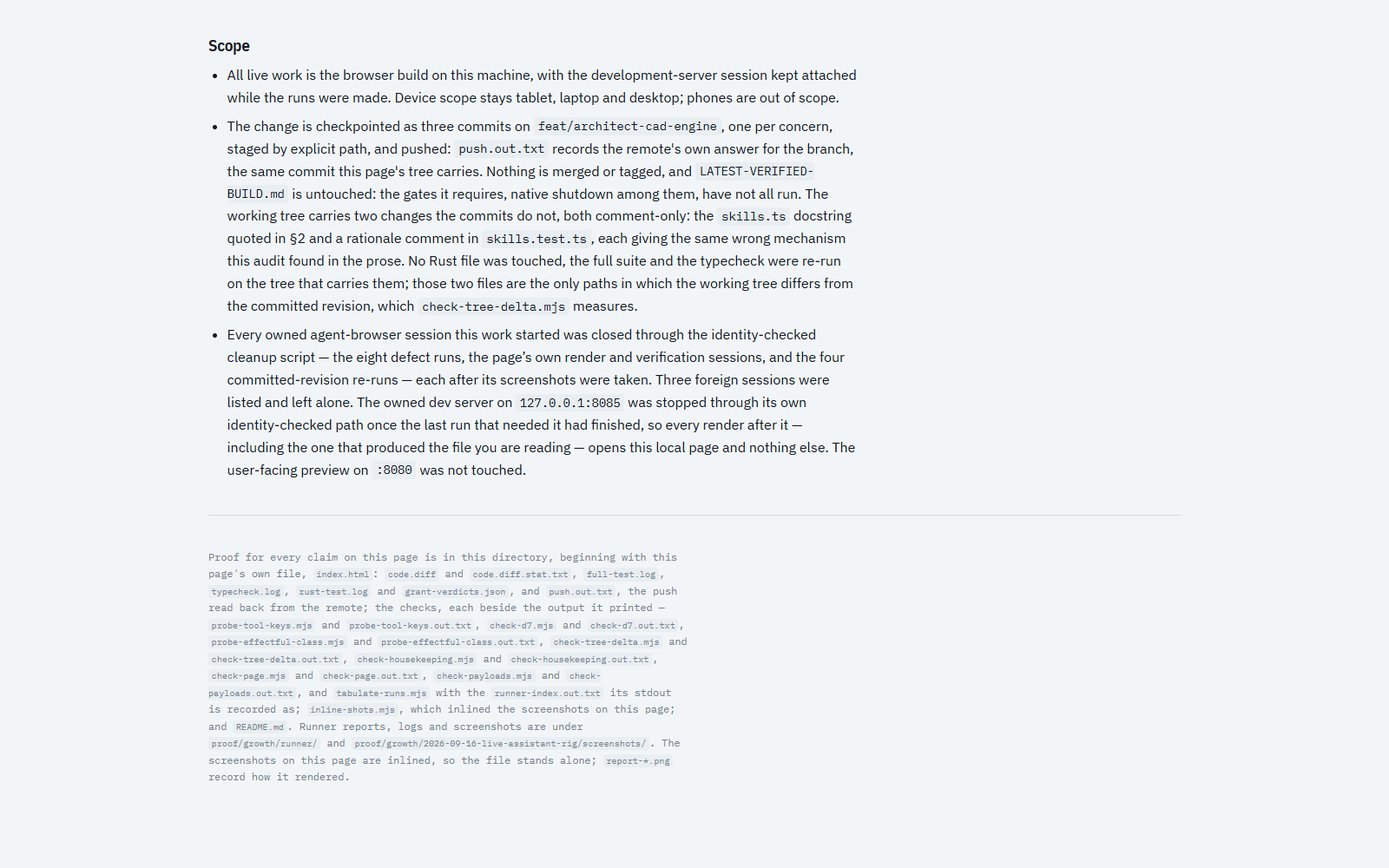
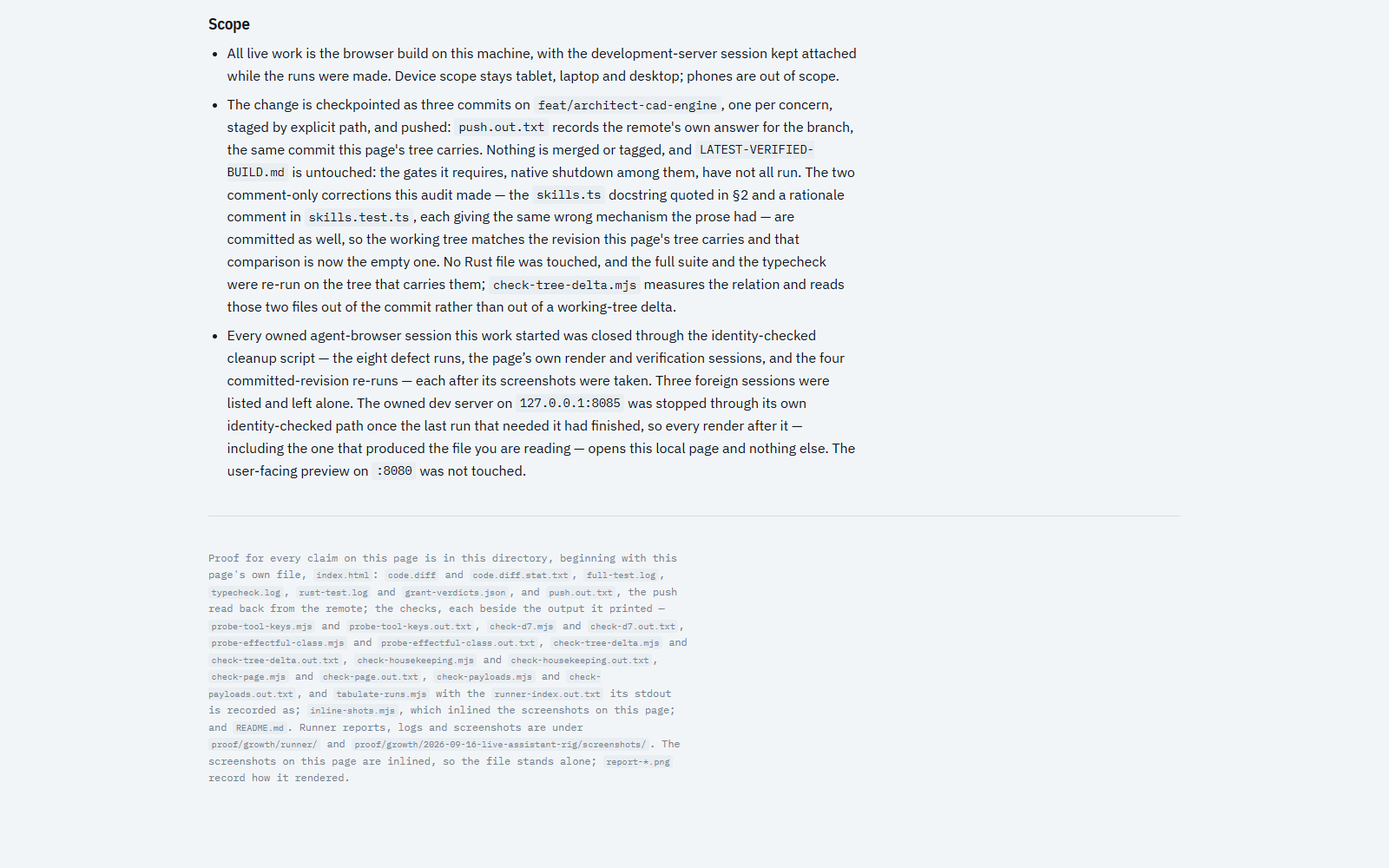
docs(proof): re-render the report page for the committed corrections, and re-derive every figure that moved
The commit before this one put the two comment corrections into the history and re-pointed the check
that measures them. That made three passages of the report page and four of its note false — they said
the working tree carried changes the commits did not — and it made the check's own readings the clean
state's rather than the delta's. This is the round that follows: the page and the note are edited, the
page is re-rendered, and every figure the record and the render own is re-derived rather than retyped.

The page. Its Scope bullet and its `code.diff` evidence row now say the corrections are committed and
that the comparison is the empty one; the row's account of what the check shows is the reading the check
actually prints, taken from the pinned tip (`git diff 26f5deb 09f1771`); and the §5 row that asked a
reader to run `git diff HEAD~3` now asks for the pinned range, which later commits do not move. The page
carries no `HEAD~3` at all, which the render's scenario reads directly. §2's docstring quotation needed
no edit: the commit is what made that quotation true of the committed source.

The render. `qa-render-final12` re-took all six captures against the edited page, and its scenario is
derived from the previous one rather than rewritten — 83 booleans over the page, 47 that must read true
and 36 that must read false, 35 of them superseded wordings, every one landing as declared. Its scenario
[…]

Changed region(s): [[0.1562, 0.0, 0.625, 0.558], [0.1562, 0.62, 0.5, 0.899]]

diff --git a/proof/growth/2026-09-17-defect-fixes/index.html b/proof/growth/2026-09-17-defect-fixes/index.html
@@ -258,7 +258,7 @@
             <td>Internal planning text shown to the user. 158 characters of third-person reasoning archived and rendered as an assistant message.</td>
             <td><strong>Mitigated, not fixed.</strong> The strip now covers all three <em>tagged</em> shapes and leaves a space where it removes text. The surviving candidate &mdash; a tool-calling round&rsquo;s text emitted as a durable bubble at <code>conversation.ts:129</code> &mdash; is deliberately untouched.</td>
             <td><span class="tier t-mitigated">not verifiable</span></td>
-            <td>Source + unit. The triggering run was 1 of 5 and is not reproducible on demand. What is proven is that the site is unchanged: <code>git diff HEAD~3 -- src/studio/assistant/conversation.ts</code> is empty, so no commit in this change touches it.</td>
+            <td>Source + unit. The triggering run was 1 of 5 and is not reproducible on demand. What is proven is that the site is unchanged: <code>git diff 26f5deb 09f1771 -- src/studio/assistant/conversation.ts</code> is empty &mdash; the range <code>push.out.txt</code> records, which later commits do not move &mdash; so no commit in this change touches it.</td>
           </tr>
           <tr>
             <td>D2</td>
@@ -434,13 +434,16 @@ members. The class exists so the gate can widen without the record changing mean
             <td>code.diff</td>
             <td>The complete change</td>
             <td>17 files, <strong>+452 / &minus;60</strong>, no new source files. Re-generated from the three
-            commits and byte-compared with <code>cmp</code>: identical to <code>git diff HEAD~3</code>
-            as the change was committed, 93,178 bytes. Two comments have been corrected since, one per
-            file and both comment-only &mdash; the <code>skills.ts</code> docstring quoted above, in
-            &sect;2, and a rationale comment in <code>skills.test.ts</code> &mdash; and those two are
-            the only thing the same comparison now shows: 21 lines across exactly those two paths,
-            none of them code, the other fifteen committed paths carrying an identical diff. Run
-            rather than asserted: <code>check-tree-delta.mjs</code>, <strong>6 of 6</strong>.</td>
+            commits and byte-compared with <code>cmp</code>: identical to <code>git diff
+            26f5deb 09f1771</code> &mdash; the range <code>push.out.txt</code> records, which does not
+            move when later commits land &mdash; as the change was committed, 93,178 bytes. Two comments
+            were corrected after it, one per file and both comment-only: the <code>skills.ts</code>
+            docstring quoted above, in &sect;2, and a rationale comment in <code>skills.test.ts</code>.
+            Both are committed, so the comparison that used to show their 21 lines shows none of them,
+            and <code>check-tree-delta.mjs</code> reads the two files out of the commit that carries
+            them instead of out of a working-tree delta: 21 lines against the pinned tip, none of them
+            code, the other fifteen committed paths carrying an identical diff. Run rather than
+            asserted: <strong>6 of 6</strong>.</td>
           </tr>
           <tr>
             <td>full-test.log</td>
@@ -776,12 +779,13 @@ The answer rests on the conversation and any receipts already recorded."</blockq
       concern, staged by explicit path, and pushed: <code>push.out.txt</code> records the remote's own
       answer for the branch, the same commit this page's tree carries. Nothing is merged or tagged, and
       <code>LATEST-VERIFIED-BUILD.md</code> is untouched: the gates it requires, native shutdown among
-      them, have not all run. The working tree carries two changes the commits do not, both
-      comment-only: the <code>skills.ts</code> docstring quoted in &sect;2 and a rationale comment in
-      <code>skills.test.ts</code>, each giving the same wrong mechanism this audit found in the prose.
-      No Rust file was touched, the full suite and the typecheck were re-run on the tree that carries
-      them; those two files are the only paths in which the working tree differs from the committed
-      revision, which <code>check-tree-delta.mjs</code> measures.</li>
+      them, have not all run. The two comment-only corrections this audit made &mdash; the
+      <code>skills.ts</code> docstring quoted in &sect;2 and a rationale comment in
+      <code>skills.test.ts</code>, each giving the same wrong mechanism the prose had &mdash; are
+      committed as well, so the working tree matches the revision this page's tree carries and that
+      comparison is now the empty one. No Rust file was touched, and the full suite and the typecheck
+      were re-run on the tree that carries them; <code>check-tree-delta.mjs</code> measures the
+      relation and reads those two files out of the commit rather than out of a working-tree delta.</li>
       <li>Every owned agent-browser session this work started was closed through the identity-checked
       cleanup script &mdash; the eight defect runs, the page&rsquo;s own render and verification
       sessions, and the four committed-revision re-runs &mdash; each after its screenshots were taken.

diff --git a/proof/growth/2026-09-17-defect-fixes/README.md b/proof/growth/2026-09-17-defect-fixes/README.md
@@ -16,12 +16,12 @@ This directory is not part of those commits, so the note is the repair record ra
 shipped; every file it cites is in the working tree or a tracked path, and the record is committed on its own.
 `code.diff` was taken from the working tree before staging and, as the change was committed,
 **`git diff 26f5deb 09f1771` — the range `push.out.txt` beside it records — was byte-identical to it** —
-93,178 bytes, `cmp` clean. Two comments have been corrected since, one per file and both
+93,178 bytes, `cmp` clean. Two comments were corrected after it, one per file and both
 comment-only: `skills.ts`'s docstring, quoted in the page&rsquo;s §2, and a rationale comment in
-`skills.test.ts` — each gave the same wrong mechanism the corrected prose gave. Those two are the only
-thing the comparison adds today, so the "byte for byte" wording is retired here rather than left
-standing; `code.diff` itself is unchanged, and `check-tree-delta.mjs` runs the whole relation below
-rather than leaving it to this sentence.
+`skills.test.ts` — each gave the same wrong mechanism the corrected prose gave. Both are committed
+now, so the comparison that used to add their 21 lines adds nothing, and `check-tree-delta.mjs` runs
+the whole relation below — reading those two files out of the commit that carries them — rather than
+leaving it to this sentence.
 
 The rule this directory answers to: **nothing is done without a code diff plus executed or inspected
 proof.** Every claim below names the artifact that carries it, and the three that are not established
@@ -182,8 +182,8 @@ they are copied verbatim into `grant-verdicts.json` rather than cited by run id.
 | `probe-effectful-class.mjs`, `.out.txt` | What the effectful class is, and what the rejected alternative would have done | Runs the real predicates: the 38-name catalogue splits into **12 edits / 5 effectful-not-edits / 21 other declared reads / 0 unclassified** — 12 + 5 + 21 = 38, the 17 gated and 21 read-only the row above states; the five effectful names are themselves declared reads, so the probe's separately printed `26 declared reads` contains them; `assistantToolAllowed` stops moving with `allowProjectEdits` for exactly the five (`skills.ts:145`'s first disjunct decides them, so no `EDIT_TOOLS` membership can change it), while the gate before this change keyed on that set alone (read out of `git show 88e2e52^`); five readers of `isAssistantEditTool` outside tests, of which the gate's own `isAssistantGatedTool` is one; with a pending action set the witness edit tool is refused by `workPacket.ts:81` — the refusal keys off `isAssistantEditTool`, so it covers all 12 — and none of the five is; `isStateChangingTool` is false for all five and true for the witness edit; and `isConfirmedRejection` answers false for every name but the two draw tools, handed the one receipt shape that clears one. It also resolves against the tree each `file.ext:N` token the page and this note print — and fails one that lands on a blank or on a comment line, `//` included; a shorthand continuation and a range&rsquo;s second endpoint spell out no filename of their own, so they are not resolved; its own section G states how many occurrences that is and how many are distinct, and neither figure is repeated here, because this note is one of the two documents counted; on its first run section G caught a real one, a `skills.ts` line this pass's own comment correction had moved onto the docstring. **51 of 51**. |
 | `check-payloads.mjs`, `check-payloads.out.txt` | The page's four inlined figures against every PNG under `proof/` | **4 payloads**, each a PNG and all four distinct, and **0 of 4** matching the bytes of any PNG under `proof/` — the count it is held against and their digests are in its recorded output rather than quoted here, because every capture this bundle gains moves them. That comparison is what licenses reading the page's figures as the accepted runs' frames rather than the re-run ones. **4 of 4**. |
 | `tabulate-runs.mjs`, `runner-index.out.txt` | The live-run index | 26 reports: **4 accepted turns / 4 re-run at the committed revision / 5 substantively excluded / 1 diagnostic**, plus **12 close-operation-only** entries. Every accepted, re-run and close-operation report exits 0; the four that do not — two `exit 1` and two `exit null` from the rig's spawn timeout — are among the excluded runs, and §6 labels each with its own status. |
-| `check-housekeeping.mjs`, `check-housekeeping.out.txt` | The count claims above, checked against the record rather than restated | 25 passes, 51 sessions, **50 of 50** temporary profile directories gone after close, 1 persistent directory still present, and the record's last twenty-eight entries exactly this work's sessions, each `exitCode: 0` with its daemon and every profile directory gone. Also that the owned dev server was stopped rather than retained, and that the user-facing preview is the only server kept — that last reading run as well against three perturbed copies of the record, each of which it must reject, so a record that keeps a second server on any port cannot pass it. **13 of 13**. |
-| `check-page.mjs`, `check-page.out.txt`, `report-*.png` | The report page itself, checked and then rendered | 21 classes used / 25 defined, tag balance clean, no unresolved substitution, fonts the only external host, every one of the 21 tokens defined inside each of the two dark blocks — the two are read one at a time rather than merged into one list, so a token defined in only one of them fails the check instead of passing on the pair — and the footer's inventory of this directory held in both directions: 26 file names and one glob standing in for its 6 captures, over all 32 entries, so an artifact the footer omits or one it names but the directory does not hold both fail it — its recorded output counts 29 `<code>` tokens to get there, the other two being the directory paths the footer also names, which are skipped because they name no file in this directory. Rendered at 1600×1000 as five captures — the top, the register and the fix, the committed-revision re-runs, §4's evidence table from its `code.diff` row down, and the page tail (§7 Limits, Scope and the proof footer) — and the readings are that viewport's own DOM: 4 tally tiles, 21 table rows, all 4 inlined screenshots loading, the body ground painted from the token, and no horizontal overflow. The 400×900 pass re-reads horizontal overflow alone and took the sixth capture. That is a narrow-viewport robustness reading of this page, not a device-scope claim, which stays tablet, laptop and desktop. The rendered reading is the shipped page's own report (`2026-09-17T10-48-35-327Z-qa-render-final11`), whose scenario declares 78 booleans over the page — 46 that must read true (the re-run block, the four readings, every corrected sentence, the disclosure that the retracted 76.2 s figure is stated beside the note that no artifact established it, the footer's own inventory, the two clauses and the split card readings the previous round re-worded, this round's corrected footer clauses and their retired wordings read as absent, the scope bullet that now says the commits are pushed, the push record the footer's inventory counts, and two structural checks) and 32 that must read false (31 superseded wordings and one geometry reading that catches horizontal overflow) — and every one of them lands as declared. The renders before it are kept in the record rather than dropped: `qa-render-final3`, whose one failed assertion was the scenario's fault and not the page's (a pattern written as a single line against a sentence the source wraps in two, which `document.body.textContent` therefore does not contain — the eval now compares whitespace-collapsed prose), and `qa-render-final4` through `qa-render-final9`, each superseded when a passage of the page was corrected after its captures had been taken — `qa-render-final8` by the §7 correction, whose first form re-worded the clause before the one it aimed at and turned one of the scenario's own readings false, so the edit was narrowed back to the sentence the audit had sustained, `qa-render-final9` by the footer correction, which had credited `runner-index.out.txt` to a script that writes no file, and `qa-render-final10` by the push: four passages in this bundle said the commits were unpushed, and the push made all four false the moment it landed. |
+| `check-housekeeping.mjs`, `check-housekeeping.out.txt` | The count claims above, checked against the record rather than restated | 27 passes, 52 sessions, **51 of 51** temporary profile directories gone after close, 1 persistent directory still present, and the record's last twenty-eight entries exactly this work's sessions, each `exitCode: 0` with its daemon and every profile directory gone. Also that the owned dev server was stopped rather than retained, and that the user-facing preview is the only server kept — that last reading run as well against three perturbed copies of the record, each of which it must reject, so a record that keeps a second server on any port cannot pass it. **13 of 13**. |
+| `check-page.mjs`, `check-page.out.txt`, `report-*.png` | The report page itself, checked and then rendered | 21 classes used / 25 defined, tag balance clean, no unresolved substitution, fonts the only external host, every one of the 21 tokens defined inside each of the two dark blocks — the two are read one at a time rather than merged into one list, so a token defined in only one of them fails the check instead of passing on the pair — and the footer's inventory of this directory held in both directions: 26 file names and one glob standing in for its 6 captures, over all 32 entries, so an artifact the footer omits or one it names but the directory does not hold both fail it — its recorded output counts 29 `<code>` tokens to get there, the other two being the directory paths the footer also names, which are skipped because they name no file in this directory. Rendered at 1600×1000 as five captures — the top, the register and the fix, the committed-revision re-runs, §4's evidence table from its `code.diff` row down, and the page tail (§7 Limits, Scope and the proof footer) — and the readings are that viewport's own DOM: 4 tally tiles, 21 table rows, all 4 inlined screenshots loading, the body ground painted from the token, and no horizontal overflow. The 400×900 pass re-reads horizontal overflow alone and took the sixth capture. That is a narrow-viewport robustness reading of this page, not a device-scope claim, which stays tablet, laptop and desktop. The rendered reading is the shipped page's own report (`2026-09-17T17-17-51-089Z-qa-render-final12`), whose scenario declares 83 booleans over the page — 47 that must read true (the re-run block, the four readings, every corrected sentence, the disclosure that the retracted 76.2 s figure is stated beside the note that no artifact established it, the footer's own inventory, the two clauses and the split card readings the previous round re-worded, this round's corrected footer clauses and their retired wordings read as absent, the scope bullet that now says the commits are pushed, the push record the footer's inventory counts, and two structural checks) and 36 that must read false (35 superseded wordings and one geometry reading that catches horizontal overflow) — and every one of them lands as declared. The renders before it are kept in the record rather than dropped: `qa-render-final3`, whose one failed assertion was the scenario's fault and not the page's (a pattern written as a single line against a sentence the source wraps in two, which `document.body.textContent` therefore does not contain — the eval now compares whitespace-collapsed prose), and `qa-render-final4` through `qa-render-final9`, each superseded when a passage of the page was corrected after its captures had been taken — `qa-render-final8` by the §7 correction, whose first form re-worded the clause before the one it aimed at and turned one of the scenario's own readings false, so the edit was narrowed back to the sentence the audit had sustained, `qa-render-final9` by the footer correction, which had credited `runner-index.out.txt` to a script that writes no file, `qa-render-final10` by the push: four passages in this bundle said the commits were unpushed, and the push made all four false the moment it landed, and `qa-render-final11` by the round that committed the corrections — the page said the working tree carried them, and the commit made that false. |
 
 The probe asserts the partition rather than printing it for a reader. It builds the real catalogue via
 `createAppTools(port)` and holds every reading above against it, including the keys `INTENT_KEYS` names —
@@ -365,24 +365,24 @@ revision rather than from the accepted run.
   which the standing constraints forbid without Daniel naming them, so the claim that each commit is
   independently green rests on reading, not on execution. What *is* executed is the whole suite on the
   final tree, and that `git diff 26f5deb 09f1771` was byte-identical to `code.diff` as the change was committed.
-  The working tree carries two further changes the three commits do not — the `skills.ts` docstring the page quotes in §2,
-  and a rationale comment in `skills.test.ts` that repeated the same wrong mechanism, both comment-only and both corrected
-  after the commits — so that comparison today adds those two comments and nothing else,
-  uncommitted and disclosed rather than folded into `code.diff`.
+  The two comment-only corrections — the `skills.ts` docstring the page quotes in §2, and a rationale
+  comment in `skills.test.ts` that repeated the same wrong mechanism — are committed as well, in the
+  commit that re-points the check below; the working tree therefore matches the revision this page's
+  tree carries, and the comparison that used to add those two comments adds none.
 
 ## Process housekeeping
 
-Twenty-eight owned agent-browser sessions — the eight defect runs (`qa-defect20-d3`, `qa-defect21-d8`,
+Twenty-nine owned agent-browser sessions — the eight defect runs (`qa-defect20-d3`, `qa-defect21-d8`,
 `qa-defect22-d8`, `qa-defect22b-d8`, `qa-defect22c-d8`, `qa-defect22d-d4`, `qa-defect23-diag`,
 `qa-defect23b-diag`), the five earlier page-render and verification runs (`qa-report-page`,
 `qa-report-page2`, `qa-report-page3`, `qa-report-page3-verify`, `qa-report-page4`), the four
 committed-revision re-runs (`qa-recheck-d3`, `qa-recheck-d8-readonly`, `qa-recheck-d8-ask`,
-`qa-recheck-d4`) and the eleven renders of this page — the first two on the page as it then stood, the third
+`qa-recheck-d4`) and the twelve renders of this page — the first two on the page as it then stood, the third
 whose only failed assertion was the scenario's own, the fourth through tenth each retired when a passage of
-the page was corrected after its captures had been taken, and the eleventh carrying the shipped bytes
+the page was corrected after its captures had been taken, and the twelfth carrying the shipped bytes
 (`qa-render-final`, `qa-render-final2`, `qa-render-final3`, `qa-render-final4`, `qa-render-final5`,
 `qa-render-final6`, `qa-render-final7`, `qa-render-final8`, `qa-render-final9`, `qa-render-final10`,
-`qa-render-final11`) — were closed through
+`qa-render-final11`, `qa-render-final12`) — were closed through
 `.temp/live-rig/close-campaign-browsers.mjs --apply`, which identity-checks each session by name
 (pattern `/^(qa-|look-sweep)/`) before closing it through the rig's own `[["close"]]` opcode. Each close
 wrote an ordinary runner report, and each closed session's identity check, exit code and
@@ -398,11 +398,11 @@ The script merges each pass into
 rather than starting it fresh: `passes` appends, and `sessionsClosed` keeps every earlier entry except a
 session that closes again, whose entry is replaced with the newer one. (The rest of the object is rebuilt
 from the script's own template each pass, which is how an earlier amendment to the dev-server block was
-lost; that block is now derived at write time, below, so it cannot be.) The table records 51 sessions
-across 25 passes, and its last twenty-eight entries are exactly the sessions this work started: the eight defect
-runs, the five earlier page-render and verification runs, the four committed-revision re-runs, and the eleven
+lost; that block is now derived at write time, below, so it cannot be.) The table records 52 sessions
+across 27 passes, and its last twenty-nine entries are exactly the sessions this work started: the eight defect
+runs, the five earlier page-render and verification runs, the four committed-revision re-runs, and the twelve
 renders of this page, each closed after a verified identity check and each recorded with `exitCode: 0`.
-50 of 50 temporary browser profile directories were gone after close; the single persistent profile is the
+51 of 51 temporary browser profile directories were gone after close; the single persistent profile is the
 deliberate restart-persistence fixture from the sweep.
 
 An audit of this bundle read the sibling record too, and found four passages in it that its own citation
@@ -434,8 +434,8 @@ The completeness critic run over the same audit found one figure in this note th
 This note's Process housekeeping paragraph still named twenty-seven owned sessions and ten renders, and made
 `qa-render-final10` the render carrying the shipped bytes — twenty-seven lines above the paragraph that
 already read twenty-eight and eleven, and beside the evidence row that names the shipped report as
-`2026-09-17T10-48-35-327Z-qa-render-final11`. The record settles it: 51 closed sessions, the last 28 of them
-this work's, eleven of those renders, and the push is what retired the tenth. The paragraph reads the
+`2026-09-17T17-17-51-089Z-qa-render-final12`. The record settles it: 52 closed sessions, the last 29 of them
+this work's, twelve of those renders, and the push is what retired the tenth. The paragraph reads the
 record's figures now, and the check that carries the same numbers is what holds it there.
 
 **The anchor that check compared against moved with HEAD; this round pinned it, and committed the proof.**
@@ -446,13 +446,19 @@ reported is a property of where HEAD is, not of the working tree it is about. It
 the `push.out.txt` beside it, which already records the push as `26f5deb..09f1771`, prints that range, and reads
 nothing that moves with HEAD: the range is pinned, and the one line that could have moved — whether the
 pinned tip is still in HEAD's history — is monotone, so it prints the same before and after a commit rather
-than reporting where HEAD has got to. Every other reading is the one it printed before: 93,178 bytes in
-`code.diff` and in the committed diff, the two corrected paths the only ones differing from HEAD, the other
-fifteen carrying an identical diff, 21 changed lines with none of them code, +684 bytes over the change's
-own paths, and six of six. The recorded `.out.txt` was rewritten by the bundle verifier
-(`.temp/live-rig/verify-bundle-final9.mjs --apply`) for the printed labels alone, after which the plain
-re-run reports 0 of 8 recorded artifacts differing from a fresh run. No page byte was touched, so
-`qa-render-final11` still covers the bytes that shipped.
+than reporting where HEAD has got to. While the corrections were uncommitted it printed the delta's own
+readings; since they were committed it prints the clean state's: 93,178 bytes in `code.diff` and in the
+committed diff, no path differing from HEAD, the other fifteen carrying an identical diff, and the two
+corrections read out of the commit that carries them — 21 lines against the pinned tip, none of them code,
+with the change's own paths carrying the committed change and those two files and nothing else. Six of six
+in both states, which the round that committed them proved by putting one comment line into `skills.ts`
+and running it (`.temp/live-rig/probe-delta-state.mjs`), and by failing the first attempt at that probe,
+which appended a newline to a file whose last line had none and was reported as two changed lines, one of
+them not a comment. The recorded `.out.txt` was rewritten twice by the bundle verifier
+(`.temp/live-rig/verify-bundle-final9.mjs --apply`): once for the printed labels, and again when the
+corrections landed and the readings became the clean state's, after which the plain re-run reports 0 of 8
+recorded artifacts differing from a fresh run. That round edited the page, so `qa-render-final11` no longer
+covers the shipped bytes and the render that does is named below.
 
 The untracked evidence under `proof/growth/` is committed as the commit that carries this directory, which
 `git log -1 -- proof/growth/2026-09-17-defect-fixes` resolves: the four bundles —
@@ -460,14 +466,34 @@ The untracked evidence under `proof/growth/` is committed as the commit that car
 `2026-09-17-defect-fixes` — and the 467 session files under `runner/`, so the proof for the three fix commits
 is in the repository and not only on this machine. This round's push answer is recorded in
 `.temp/live-rig/proof-push.out.txt` rather than in a file here, because a new file in this directory
-invalidates the page that names every file in it. The two comment-only corrections in `skills.ts` and
-`skills.test.ts` stay deliberately uncommitted, which is what the page's Scope and the paragraph below say:
-committing them would make those sentences false, and repairing a page means re-rendering it and re-taking its
-captures, so they wait for the round that can. The page's own two `HEAD~3` readings stay true either way: the
-one it asks of `conversation.ts` is empty, because that file is not among the change's seventeen paths —
-measured at `26f5deb`, `5d0de3a` and `88e2e52` — and the other is dated to the moment of committing, where the
-pinned range is its reproducible form. Eight `.tmp-*` scratch files that sat in the repository root are now
+invalidates the page that names every file in it. The two comment-only corrections were committed in the round
+after this one, which is what that round's page and note edits are for: the Scope and the code.diff row had said
+the working tree carried changes the commits did not, and committing them made those sentences false, so the page
+was edited, re-rendered and re-captured rather than left standing. Its `HEAD~3` readings went with them — the one
+it asks of `conversation.ts` is now the pinned range, `git diff 26f5deb 09f1771 -- src/studio/assistant/conversation.ts`,
+which is empty and does not move, and the other was already dated to the moment of committing. Eight `.tmp-*` scratch files that sat in the repository root are now
 under `.temp/live-rig/scratch/`, which is ignored — the reason the root is clean.
+
+**The corrections are committed, the check follows the tree, and the page was re-rendered for it.**
+The two comment-only corrections this bundle had disclosed as outstanding — the `skills.ts` docstring the page
+quotes in §2 and the rationale comment in `skills.test.ts` — are committed, and the commit that carries them is
+also the one that re-points `check-tree-delta.mjs`. Two of that check's readings had been written for the state
+in which the corrections sit in the working tree, and the state the commit created is the one where they do not:
+the line-count reading now takes the committed corrections from the pinned tip, `git diff 26f5deb 09f1771`,
+instead of counting a delta that is empty, and the fifth reading holds the change's own paths to the committed
+change plus those two files and nothing else. It counts lines because a diff's byte length is not additive — the
+byte form of that reading failed by arithmetic rather than by drift, which is how it was found. Both states are
+then run: with the corrections committed the check prints six of six, and with one comment line put into
+`skills.ts` and removed again (`.temp/live-rig/probe-delta-state.mjs`) it prints six of six in the delta state
+too. Its first attempt at that probe — which appended a newline to a file whose last line had none — was failed
+by the check as two changed lines, one of them not a comment, which is the reading doing what it is for.
+
+The page and this note were edited for the state the commit created: the three passages that said the working
+tree carried changes the commits did not, the two `HEAD~3` readings the page asked of a reader, and the
+`code.diff` row's account of what the comparison shows. The page was then re-rendered as
+`2026-09-17T17-17-51-089Z-qa-render-final12`, and its scenario declares 83 booleans over the page — 47 that must read
+true and 36 that must read false, 35 of them superseded wordings — every one of
+which lands as declared. The six captures in this directory are that render's.
 The owned dev server on :8085 outlived the sessions only because the re-runs still needed
 it. Once they were finished it was stopped through its own identity-checked path —
 `.temp/live-rig/server-8085.ps1 -Stop`, which re-reads the executable, command line and creation time

diff --git a/proof/growth/2026-09-17-assistant-sweep-review/README.md b/proof/growth/2026-09-17-assistant-sweep-review/README.md
@@ -13,7 +13,7 @@ source** — it is a test and review record, so there is no `code.diff`.
 | --- | --- |
 | `index.html` | The review page. Self-contained; open it directly in a browser. |
 | `assistant-map.md` | The assistant-surface map, verbatim as the map workflow produced it. `index.html` converts this file at build time rather than retyping it, which removes transcription drift — but the converter is a small hand-written markdown reader, and its first version silently ate the glob asterisks inside the map's code spans (`import_*`, `quote_*`). Fixed, and no longer claimed as fidelity by construction. |
-| `process-table.json` | Written by `.temp/live-rig/close-campaign-browsers.mjs` as it ends this campaign's own browser sessions: each session's daemon PID with its creation time and executable, each browser process with the profile directory it was launched against, and whether that directory still existed after the close. This is the archive the page's restart bullets rest on for the process-level half. Seven passes and twenty-three sessions by the time this note was written: the 18 the campaign ran, plus one page-render session after each of the five later builds, plus one daemon left behind by a mis-flagged run (see the corrections table). The fix work that followed appended eighteen further passes, and the record has grown with each of them: it is read here at 51 sessions across 25 passes, and it is larger than that by the time anyone checks. Its own `summary` at that reading: 50 temporary profile directories, all 50 gone after the close, and 1 persistent directory, still present — the persistent one is the `--profile` directory the restart test was run against. |
+| `process-table.json` | Written by `.temp/live-rig/close-campaign-browsers.mjs` as it ends this campaign's own browser sessions: each session's daemon PID with its creation time and executable, each browser process with the profile directory it was launched against, and whether that directory still existed after the close. This is the archive the page's restart bullets rest on for the process-level half. Seven passes and twenty-three sessions by the time this note was written: the 18 the campaign ran, plus one page-render session after each of the five later builds, plus one daemon left behind by a mis-flagged run (see the corrections table). The fix work that followed appended twenty further passes, and the record has grown with each of them: it is read here at 52 sessions across 27 passes, and it is larger than that by the time anyone checks. Its own `summary` at that reading: 51 temporary profile directories, all 51 gone after the close, and 1 persistent directory, still present — the persistent one is the `--profile` directory the restart test was run against. |
 | `verify-pass-4.json` | The fourth verify pass verbatim — four audit lenses, every finding with its evidence and proposed fix, and every refuter's verdict. It is here because the findings otherwise lived only in a session transcript, which is not part of this repository, and a correction whose evidence nobody kept is the failure this campaign keeps finding. The tally is 18 findings, 16 confirmed, 2 refuted, none pending: the last refuter returned after the file was first written, and the archive was re-run so the verdict — the one that caught this record calling the close run "fifteen runs" when the logs held sixteen — is a verdict rather than a wait. |
 | `README.md` | This record. |
 
@@ -154,7 +154,7 @@ eleven that cut against its interest. In summary:
 | This record: "the record counts … the two Chrome profile GUIDs" | The record has no GUID field. Its 21 GUID-shaped strings are all inside `browsers[*].userDataDir`; there is no pair of GUIDs anywhere in it | The row names the twenty-one `agent-browser-chrome-<guid>` directory names, which is what it meant |
 | This record and the probe comment: the citation check "walks `src`, `scripts`, `src-tauri` and `.temp/live-rig`" | The code walks all of `.temp` — `probe-citations.mjs` line 30 — and always did; only its comment, and the sentence that copied the comment, said `live-rig`. That is also why the pre-change snapshots under `.temp/` appear as candidates | Both say `.temp`; the probe's comment records that the narrower wording was the source of the error |
 | This record: "(18 of 18)" temporary profile directories, twice | Stale in both places, and contradicting this record's own summary two rows above: the count was 20 when the pass ran and is 22 now, because each close pass adds one and the first pass's 18 is not the whole record | The Limits row and the correction row both give the count and say it grows per pass — 17 of 17 in the first pass (one of its 18 browsers was the persistent-`--profile` restart run), 22 of 22 across this campaign's own seven passes |
-| This record: "the record now stands at 36 sessions across 13 passes", its `summary` "reads 35 temporary profile directories", and "(18 of 18) … in the first pass" | Three readings of a file that keeps growing, found by an audit of the sibling proof bundle. The first two were true when written and were falsified by every pass since — the record holds 51 sessions across 25 passes, and 50 temporary profile directories — and the third was never true: that pass closed 18 browsers, one of them, `qa-live-21-restart-real`, against the persistent `--profile` directory, so the strict predicate counted 17. The correction cell two rows above had already said the record "said 17 and 17" while printing 18 in the same cell | The figures are time-scoped and name the summary fields they quote ("read here at 51 sessions across 25 passes, and it is larger than that by the time anyone checks"); both first-pass counts read 17 of 17 and say why the pass closed 18 browsers. Made by the audit recorded in `../2026-09-17-defect-fixes/README.md` |
+| This record: "the record now stands at 36 sessions across 13 passes", its `summary` "reads 35 temporary profile directories", and "(18 of 18) … in the first pass" | Three readings of a file that keeps growing, found by an audit of the sibling proof bundle. The first two were true when written and were falsified by every pass since — the record holds 52 sessions across 27 passes, and 51 temporary profile directories — and the third was never true: that pass closed 18 browsers, one of them, `qa-live-21-restart-real`, against the persistent `--profile` directory, so the strict predicate counted 17. The correction cell two rows above had already said the record "said 17 and 17" while printing 18 in the same cell | The figures are time-scoped and name the summary fields they quote ("read here at 51 sessions across 25 passes, and it is larger than that by the time anyone checks"); both first-pass counts read 17 of 17 and say why the pass closed 18 browsers. Made by the audit recorded in `../2026-09-17-defect-fixes/README.md` |
 | This record: "its summary counts 22 temporary profile directories all gone", "its twenty-two `agent-browser-chrome-<guid>` names" and "the temporary profile directory is gone after its browser closes (22 of 22)" | The campaign's own subset printed as the record's `summary`: 22 and 23 are this campaign's figures across its own seven passes (23 sessions, 22 temporary directories, 1 persistent), while `summary` covers every pass in the file and reads 50 of 50 — the construction the row two above already calls out, in three more places, against a file that grows with every pass | Each of the three is scoped to this campaign's own closes, with the file's `summary` quoted beside it at a named reading (50 of 50). The two rows these were written into had been split across lines mid-cell by the edit that wrote them, which ends a markdown table row; they are single rows again |
 
 Logs, reports and the runner's own copy of each scenario are in `../runner/`; screenshots are in
@@ -207,7 +207,7 @@ Checked at the end of the campaign, per the project's process rule.
 | User-facing preview on `:8080` | **untouched** | Not owned by this campaign. |
 | Batch-2 sequential runner, PID 45248 | **already exited** | Recorded in `.temp/live-rig/batch2-owned.json` as `run-batch2.mjs 10-ask-mode-deny`, created 2026-09-17 00:20:23Z. Verified GONE at this check; no stop was issued. The record file is kept as the record rather than deleted. |
 | CDP browsers launched per scenario | **left running by the runner, and that is what the restart finding turned on** | An earlier version of this row said the runner closed each browser it launched. It does not: a run attaches to the browser its session name points at if one is still alive, and `launched browser` is printed only when it had to start one. The proof is in the logs — sixteen runs under `qa-live-10-ask-mode-deny` and three launch lines, the first run of the name and the two relaunches this session made deliberately. Browsers are ended only by an explicit `["close"]` (see the close runs in the table above), which is what the restart test uses. |
-| This campaign's own CDP sessions — 23 in all | **ended, in seven passes, each through that CLI `close`** | Pass one closed the 18 sessions the campaign had run (`qa-*`, `look-sweep-*`); the later passes closed the page-render session started after each of the five later builds, and one daemon orphaned by a mis-flagged run of that same render scenario. Every close reported exit 0, its daemon gone and its Chrome gone; `process-table.json` carries the PIDs, creation times and executables that were re-read before each one, and this campaign's own closes left 22 temporary profile directories, all 22 gone, with the one persistent `--profile` directory still present — the file's own `summary`, which counts every pass in it rather than this campaign's seven, reads 50 temporary profile directories, all 50 gone, at the reading recorded above. The three sessions this campaign did not create (`ghl-brief`, `looplet-qa`, `smoke`) were listed and left alone, and are still registered. Three agent-browser Chrome browsers are still running on this machine, and **none** of their profile directories appears anywhere in the record — every temporary directory the record lists is gone (the one persistent directory it lists, `.temp/live-rig/chrome-profile-restart`, is the restart test's and is still there) — which is how the campaign's own are told apart from what is left. That they belong to those three sessions is inference, not a reading: their parent processes are `explorer.exe` (two of them) and a PID that has since exited, not the three registered daemons. |
+| This campaign's own CDP sessions — 23 in all | **ended, in seven passes, each through that CLI `close`** | Pass one closed the 18 sessions the campaign had run (`qa-*`, `look-sweep-*`); the later passes closed the page-render session started after each of the five later builds, and one daemon orphaned by a mis-flagged run of that same render scenario. Every close reported exit 0, its daemon gone and its Chrome gone; `process-table.json` carries the PIDs, creation times and executables that were re-read before each one, and this campaign's own closes left 22 temporary profile directories, all 22 gone, with the one persistent `--profile` directory still present — the file's own `summary`, which counts every pass in it rather than this campaign's seven, reads 51 temporary profile directories, all 51 gone, at the reading recorded above. The three sessions this campaign did not create (`ghl-brief`, `looplet-qa`, `smoke`) were listed and left alone, and are still registered. Three agent-browser Chrome browsers are still running on this machine, and **none** of their profile directories appears anywhere in the record — every temporary directory the record lists is gone (the one persistent directory it lists, `.temp/live-rig/chrome-profile-restart`, is the restart test's and is still there) — which is how the campaign's own are told apart from what is left. That they belong to those three sessions is inference, not a reading: their parent processes are `explorer.exe` (two of them) and a PID that has since exited, not the three registered daemons. |
 
 ## Limits
 
@@ -222,7 +222,7 @@ Checked at the end of the campaign, per the project's process rule.
   browser was launched against, and whether that directory survived the close — the profile directory
   is the only identifier in the record, and the `agent-browser-chrome-<guid>` names this campaign's own closes left in it — 22 of them — are
   what the "GUIDs" in an earlier version of this row meant. That archive also carries one thing no log
-  holds: the temporary profile directory is gone after its browser closes — 22 of 22 across this campaign's own closes, and 50 of 50 in the file's `summary` at the reading above — while the
+  holds: the temporary profile directory is gone after its browser closes — 22 of 22 across this campaign's own closes, and 51 of 51 in the file's `summary` at the reading above — while the
   `--profile` directory used for the restart test is still there.
 - Synthetic QA fixtures only; no customer drawing, quantity or price.
 - Desktop and tablet widths; phones excluded by project instruction.
